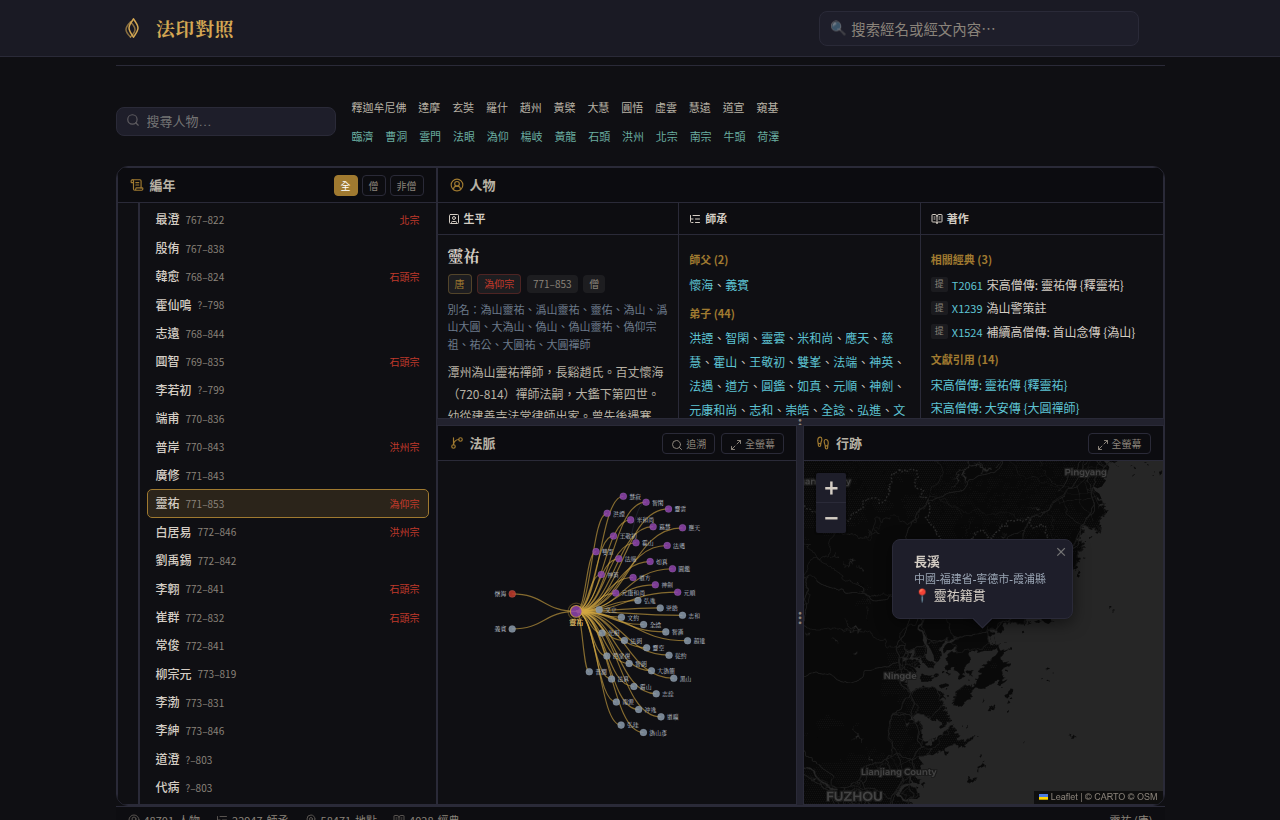
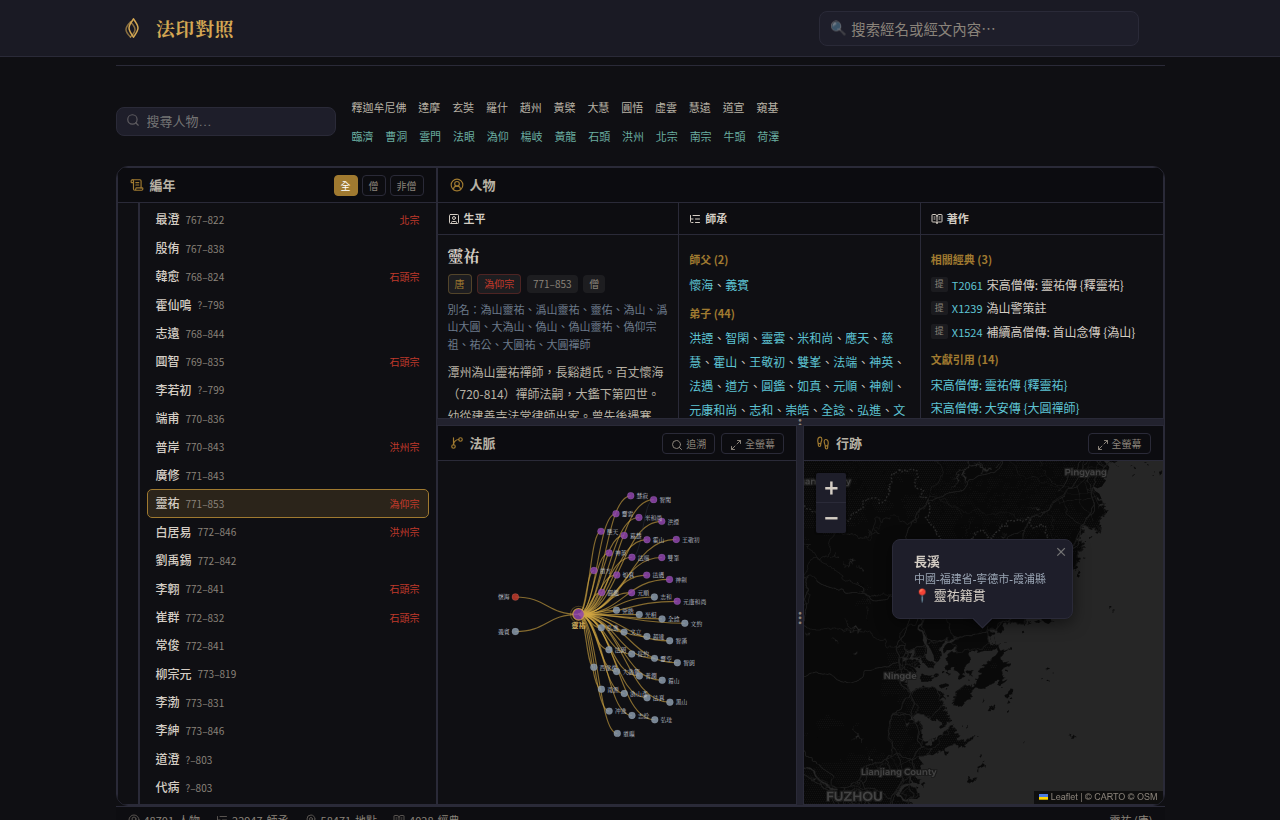
fix: 截圖腳本強制覆蓋服務端偏好的主題，避免暗色被覆寫成淺色
- reader.js 的 _loadServerPreferences 會用 user_data/preferences.json 的 theme 覆蓋初始主題；之前 normalize 沒禁用它，導致 03/04/05/06 暗色截圖實際被改成淺色
- 修復：所有 reader 的 setup_js 抽出 _reader_prelude，禁用該 fetch 並強制 setTheme(theme)
- README 截圖改 3 暗 3 淺：01/02/06 暗 + 13/14/15 淺

Changed region(s): [[0.4062, 0.5793, 0.5625, 0.9146], [0.375, 0.7622, 0.4062, 0.7927], [0.375, 0.7012, 0.4062, 0.7317]]

diff --git a/scripts/capture_readme_screenshots.py b/scripts/capture_readme_screenshots.py
@@ -175,27 +175,39 @@ SCROLL_LINEAGE_JS = r"""
 })()
 """
 
-NORMALIZE_READER_JS = r"""
-(() => {
+# 阅读器所有 setup 都先跑这一段，避免服务端偏好覆盖主题、避免任何 sync 写回
+def _reader_prelude(theme: str) -> str:
+    return f"""
   const root = document.querySelector('[x-data]');
   if (!root || !window.Alpine) return false;
   const app = Alpine.$data(root);
-  // 关闭一切 sync，避免污染服务器
-  app._syncSettingsToServer = function () {};
-  app._syncCompareToServer = function () {};
-  app._syncAiToServer = function () {};
-  app._syncCommentaryToServer = function () {};
+  app._syncSettingsToServer = function () {{}};
+  app._syncCompareToServer = function () {{}};
+  app._syncAiToServer = function () {{}};
+  app._syncCommentaryToServer = function () {{}};
+  // 关键：禁用从服务端拉取偏好，否则会用 user_data/preferences.json 覆盖主题
+  app._loadServerPreferences = function () {{ return Promise.resolve(); }};
+  app.themeMode = '{theme}';
+  app.setTheme('{theme}');
+"""
+
+
+def normalize_reader_js(theme: str) -> str:
+    return f"""
+(() => {{
+{_reader_prelude(theme)}
   app.activePanel = null;
   if (app.splitMode) app.closeSplit();
   app.setWritingMode('horizontal');
   return true;
-})()
+}})()
 """
 
-OPEN_SPLIT_JS = f"""
+
+def open_split_js(theme: str) -> str:
+    return f"""
 (() => {{
-  const root = document.querySelector('[x-data]');
-  const app = Alpine.$data(root);
+{_reader_prelude(theme)}
   app.activePanel = null;
   app.setWritingMode('horizontal');
   app.loadInRightPanel({{ id: '{SUTRA_RIGHT}', title: '金剛般若經疏' }});
@@ -203,27 +215,29 @@ OPEN_SPLIT_JS = f"""
 }})()
 """
 
-OPEN_DICT_JS = r"""
-(() => {
-  const root = document.querySelector('[x-data]');
-  const app = Alpine.$data(root);
+
+def open_dict_js(theme: str) -> str:
+    return f"""
+(() => {{
+{_reader_prelude(theme)}
   if (app.splitMode) app.closeSplit();
   app.activePanel = 'dict';
   app.dictQuery = '般若';
   app.lookupDict();
   return true;
-})()
+}})()
 """
 
-OPEN_VERTICAL_JS = r"""
-(() => {
-  const root = document.querySelector('[x-data]');
-  const app = Alpine.$data(root);
+
+def open_vertical_js(theme: str) -> str:
+    return f"""
+(() => {{
+{_reader_prelude(theme)}
   app.activePanel = null;
   if (app.splitMode) app.closeSplit();
   app.setWritingMode('vertical');
   return true;
-})()
+}})()
 """
 
 
@@ -315,16 +329,18 @@ async def capture_theme(
     await goto_with_theme(client, base_url, f"/read/{SUTRA_LEFT}", theme)
     await stabilize_page(client, "document.readyState === 'complete'")
     await stabilize_page(client, READER_READY_JS)
-    await client.evaluate(NORMALIZE_READER_JS)
+    # 等 _loadServerPreferences 的 fetch 充分完成（即使会覆盖也无所谓，下一步 normalize 会强制覆回）
+    await asyncio.sleep(0.8)
+    await client.evaluate(normalize_reader_js(theme))
     await stabilize_page(client, READER_READY_JS)
-    await asyncio.sleep(0.5)
+    await asyncio.sleep(0.4)
 
     # 03 单栏横排
     results.append(await capture(
         client, out,
         name=f"{prefix}3",
         width=DEFAULT_VIEWPORT[0], height=DEFAULT_VIEWPORT[1],
-        setup_js=NORMALIZE_READER_JS,
+        setup_js=normalize_reader_js(theme),
         ready_js=READER_READY_JS,
     ))
 
@@ -333,7 +349,7 @@ async def capture_theme(
         client, out,
         name=f"{prefix}4",
         width=SPLIT_VIEWPORT[0], height=SPLIT_VIEWPORT[1],
-        setup_js=OPEN_SPLIT_JS,
+        setup_js=open_split_js(theme),
         ready_js=SPLIT_READY_JS,
         settle=1.2,
     ))
@@ -343,7 +359,7 @@ async def capture_theme(
         client, out,
         name=f"{prefix}5",
         width=DEFAULT_VIEWPORT[0], height=DEFAULT_VIEWPORT[1],
-        setup_js=OPEN_DICT_JS,
+        setup_js=open_dict_js(theme),
         ready_js=DICT_READY_JS,
         settle=1.0,
     ))
@@ -353,7 +369,7 @@ async def capture_theme(
         client, out,
         name=f"{prefix}6",
         width=DEFAULT_VIEWPORT[0], height=DEFAULT_VIEWPORT[1],
-        setup_js=OPEN_VERTICAL_JS,
+        setup_js=open_vertical_js(theme),
         ready_js=VERTICAL_READY_JS,
         settle=0.8,
     ))

diff --git a/README.md b/README.md
@@ -25,7 +25,7 @@ CBETA 的原始数据是 XML，官方客户端有 Windows 版和 macOS 版，但
 <table>
   <tr>
     <td><img src="docs/screenshots/01.png" alt="首页：每日偈颂与九宫书架（暗金）" width="400"/></td>
-    <td><img src="docs/screenshots/12.png" alt="传承谱系：人物·法脉·行迹（纸卷）" width="400"/></td>
+    <td><img src="docs/screenshots/02.png" alt="传承谱系：人物·法脉·行迹（暗金）" width="400"/></td>
   </tr>
   <tr>
     <td><img src="docs/screenshots/13.png" alt="经文阅读器（横排，纸卷）" width="400"/></td>
